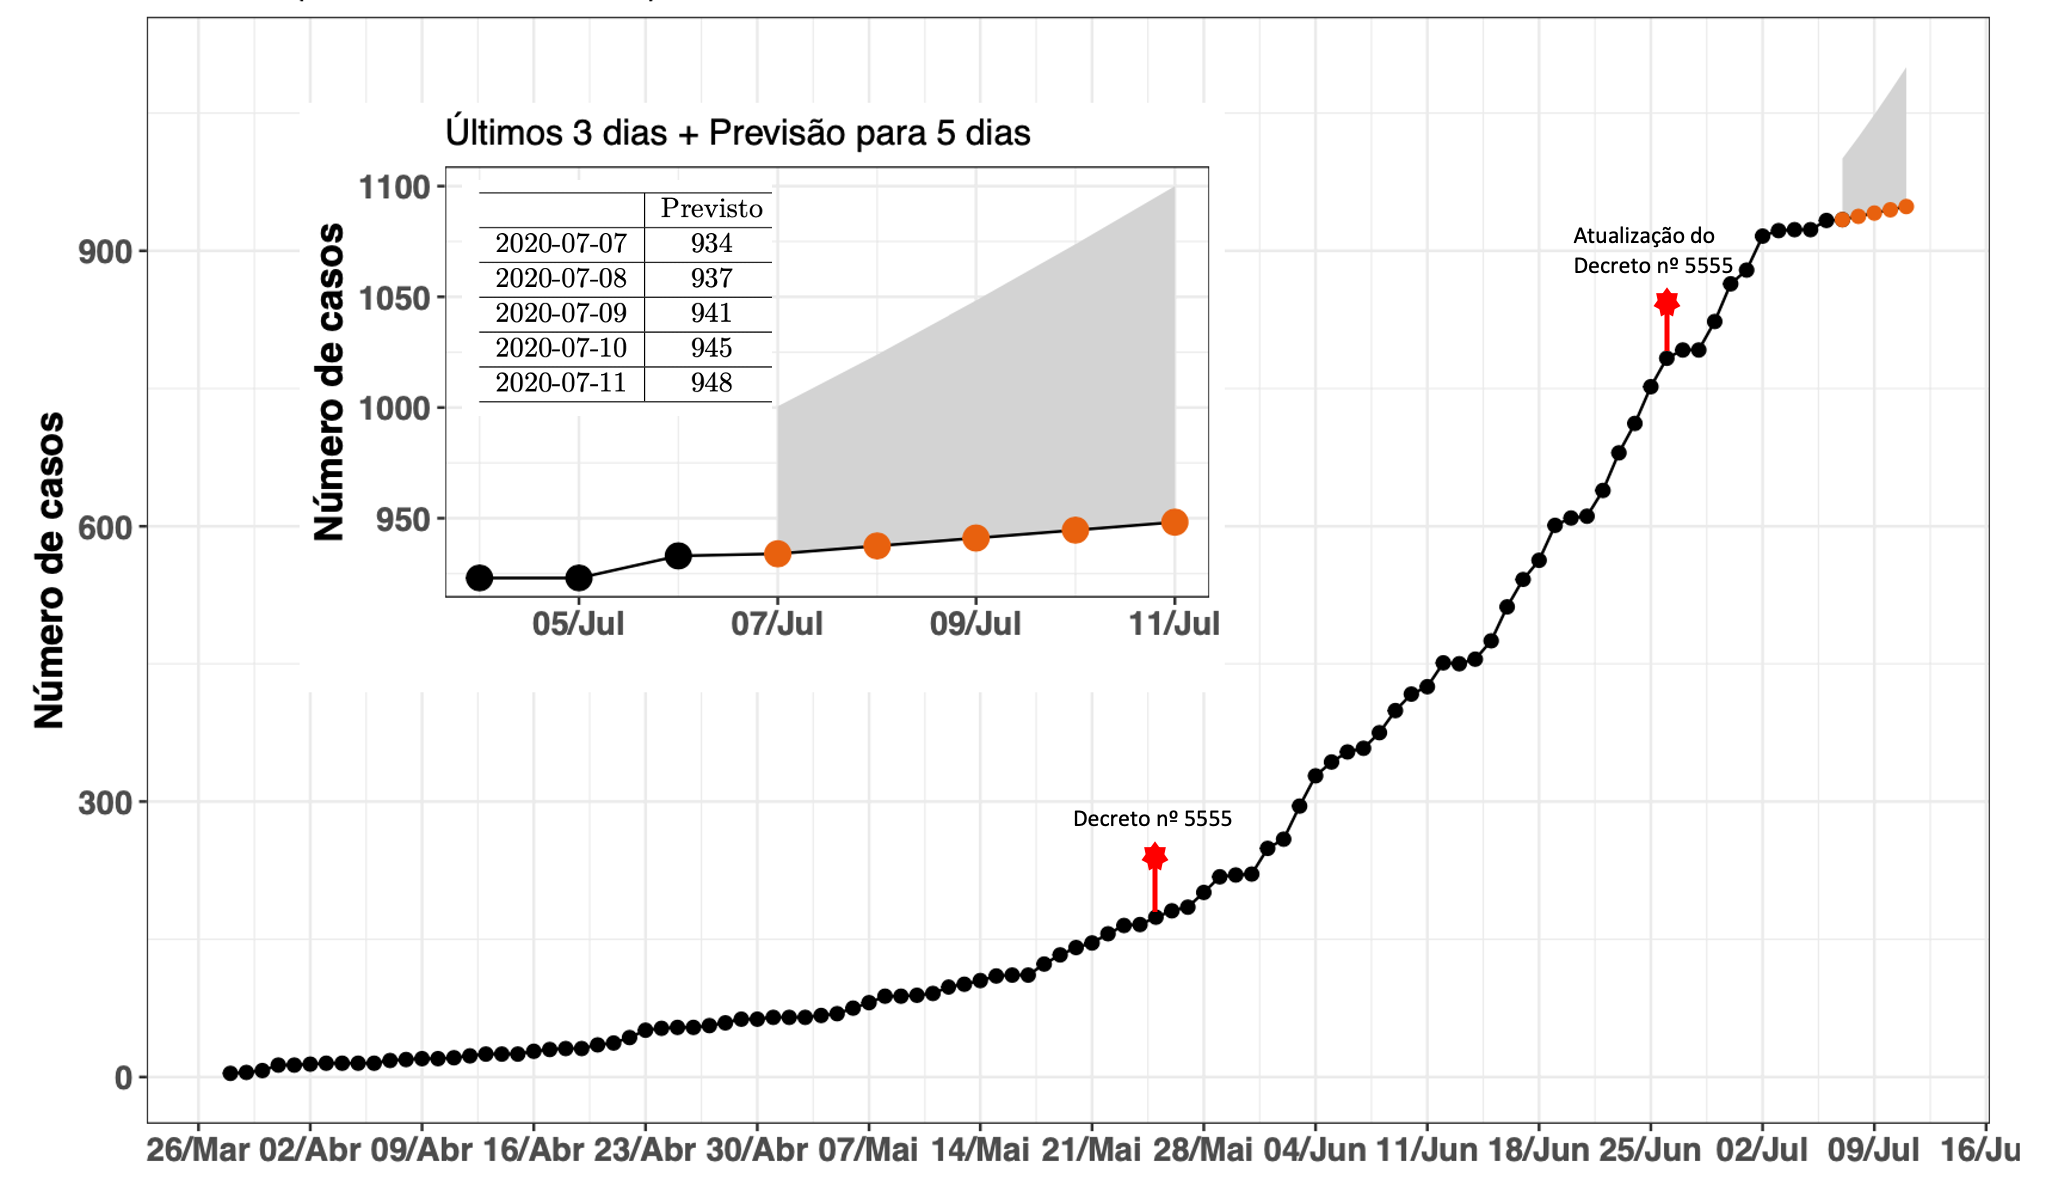
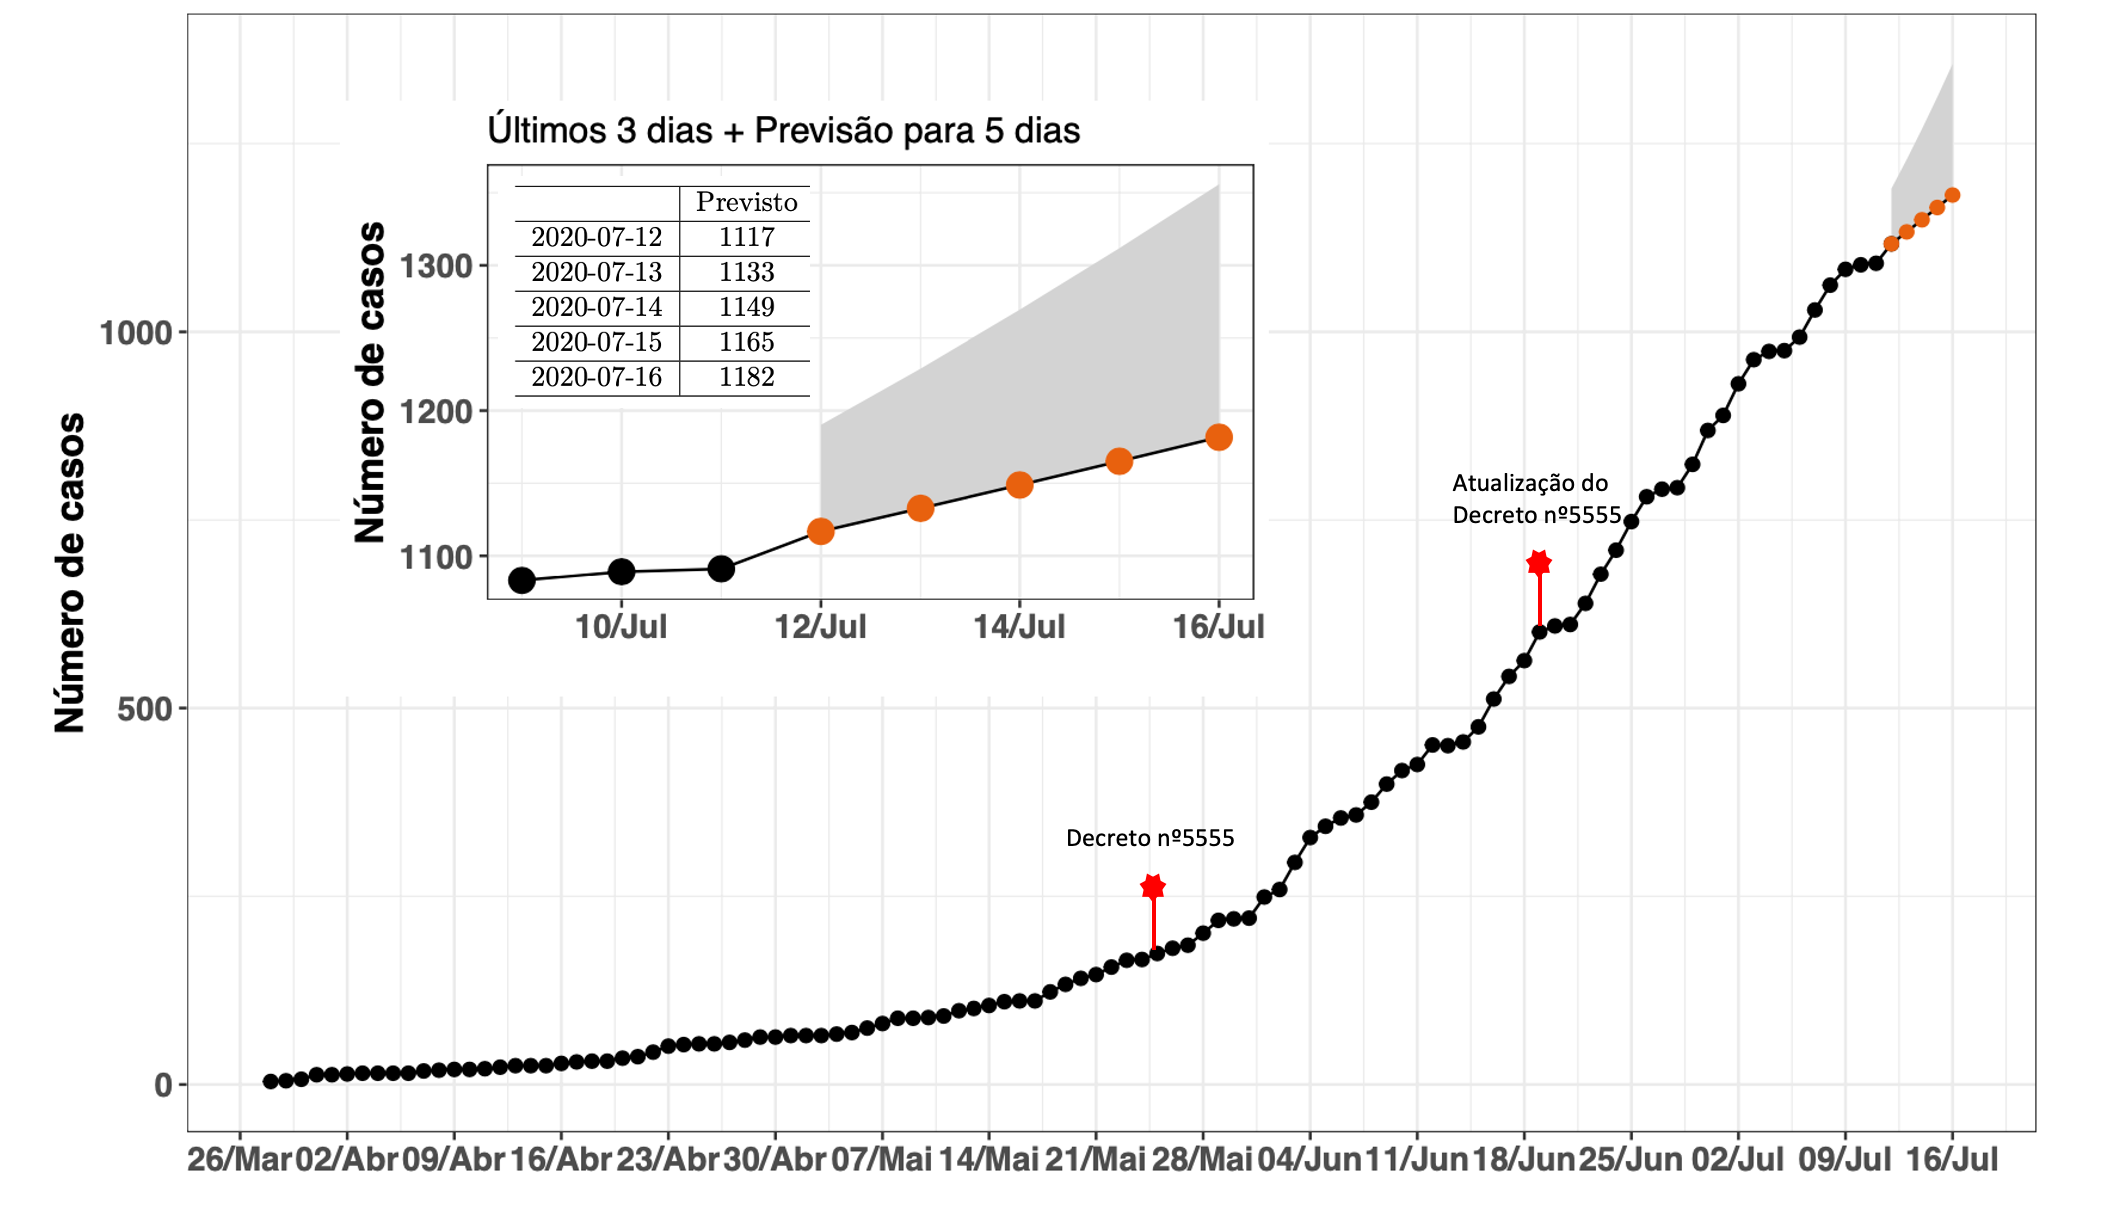
Atualizacao

diff --git a/index.html b/index.html
@@ -132,7 +132,7 @@
               <!-- CARD.TITLE.TEXT -->
               <h2 class="display">Casos de Uberaba</h2>
             <!--/a-->
-            <p class="card-text">Dados e projeções para o município de Uberaba, informações até o dia 06 de julho de 2020. Informações coletadas com a própria Secretaria Municipal de Saúde de Uberaba.</p>
+            <p class="card-text">Dados e projeções para o município de Uberaba, informações até o dia 11 de julho de 2020. Informações coletadas com a própria Secretaria Municipal de Saúde de Uberaba.</p>
             <!-- CARD.TITLE.DESCRIPTION -->
           </div>
         </div>
@@ -144,8 +144,8 @@
 
         <p class="text-justify mt-3">
             <ul>
-            <li>No dia de hoje (06/07/2020), acumulamos 933 casos notificados.</li>
-            <li>Projeção para dia 11 de Julho é de 948 podendo chegar até 1100 casos notificados, como indicado pela faixa cinza.</li>
+            <li>No dia de hoje (11/07/2020), acumulamos 1091 casos notificados.</li>
+            <li>Projeção para dia 16 de Julho é de 1182 podendo chegar até 1356 casos notificados, como indicado pela faixa cinza.</li>
             <li>Pontos pretos: número de casos confirmados a cada dia.</li>
             <li>Pontos laranjas: a previsão para os próximos 5 dias.</li>
             </ul>
@@ -173,7 +173,7 @@
         </div>
 
         <p class="text-justify mt-3">
-        Todos os dados foram obtidos da própria Secretária Municipal de Saúde de Uberaba até o dia 10 de julho de 2020.
+        Todos os dados foram obtidos da própria Secretária Municipal de Saúde de Uberaba até o dia 11 de julho de 2020.
         </p>
 
 <!--        <a href="https://datastudio.google.com/reporting/1CX1pHjDrbb7X1gEIeVY1sxQp8PziWgpN/page/g6OUB?s=hWFHXQaeMZY" target="_blank">
@@ -190,7 +190,7 @@
         <p class="text-justify mt-3"> Figura 2: Indicadores dos casos de Covid-19 em Uberaba. Clique na imagem para ver o gráfico interativo </p>
 
         <p class="text-justify mt-3">
-        Uma informação importante que vem sendo apresentada por pesquisadores da área, refere-se a média móvel. A Figura 3, apresenta a média móvel dos casos confirmados considerando um intervalo de sete dias. Os números diários têm variações muito grandes e isso não têm necessariamente relação com o avanço do vírus, como atrasos nos registros, falta de testes, entre outros problemas, o novo gráfico busca reduzir esses efeitos. No dia 10 de julho a média móvel de Uberaba é de 982 casos.
+        Uma informação importante que vem sendo apresentada por pesquisadores da área, refere-se a média móvel. A Figura 3, apresenta a média móvel dos casos confirmados considerando um intervalo de sete dias. Os números diários têm variações muito grandes e isso não têm necessariamente relação com o avanço do vírus, como atrasos nos registros, falta de testes, entre outros problemas, o novo gráfico busca reduzir esses efeitos. No dia 11 de julho a média móvel de Uberaba é de 1046 casos.
         </p>
 
         <a href="https://datastudio.google.com/reporting/1eNQdQv-rpu3yne8bvqD71-j8gS44fYts/page/sLUUB?s=sfL5MYwUyi4" target="_blank">
@@ -200,7 +200,7 @@
         <p class="text-justify mt-3"> Figura 3: Total acumulado de casos de Covid-19 em Uberaba e média móvel considerando intervalos de sete dias. </p>
 
         <p class="text-justify mt-3">
-        Apesar do dia de hoje, 10 de julho, a cidade ter acumulado 1064 casos confirmados, como mostra a Figura 2, pode-se observar que 74,3% já se encontram recuperados. Considerando a evolução dos casos ativos da doença, ou seja, aqueles que ainda podem transmitir o vírus, percebe-se que a curva está decrescendo. A Figura 4 apresenta a curva de casos ativos ao longo do tempo junto com a média móvel considerando intervalos de sete dias.
+        Apesar do dia de hoje, 10 de julho, a cidade ter acumulado 1064 casos confirmados, como mostra a Figura 2, pode-se observar que 72,7% já se encontram recuperados. Considerando a evolução dos casos ativos da doença, ou seja, aqueles que ainda podem transmitir o vírus, percebe-se que a curva está decrescendo. A Figura 4 apresenta a curva de casos ativos ao longo do tempo junto com a média móvel considerando intervalos de sete dias.
         </p>
 
         <a href="https://datastudio.google.com/reporting/1eNQdQv-rpu3yne8bvqD71-j8gS44fYts/page/sLUUB?s=sfL5MYwUyi4" target="_blank">
@@ -217,7 +217,7 @@
         </p>
 
         <p class="text-justify mt-3">
-        Nessa comparação com a média de 14 dias atrás, entende-se que variações de até 15% pata mais ou para menos caracterizam estabilidade da doença nesse período. No dia de hoje, 10 de julho, essa comparação em Uberaba é de 38%. Ainda não podemos afirmar uma estabilidade no controle da doença, mas quando se olha para a comparação dos últimos 10 dias, claramente se vê uma diminuição, conforme Figura 5.
+        Nessa comparação com a média de 14 dias atrás, entende-se que variações de até 15% pata mais ou para menos caracterizam estabilidade da doença nesse período. No dia de hoje, 10 de julho, essa comparação em Uberaba é de 42%. Ainda não podemos afirmar uma estabilidade no controle da doença, mas quando se olha para a comparação dos últimos 10 dias, claramente se vê uma diminuição, conforme Figura 5.
         </p>
 
         <a href="https://datastudio.google.com/reporting/1eNQdQv-rpu3yne8bvqD71-j8gS44fYts/page/sLUUB?s=sfL5MYwUyi4" target="_blank">
@@ -232,7 +232,7 @@
         </div>
 
         <p class="text-justify mt-3">
-            Uma pessoa infectada está contaminando 1.22 pessoas. (Semana passada esse valor era de 1.27)
+            Uma pessoa infectada está contaminando 1.18 pessoas. (Semana passada esse valor era de 1.27)
         </p>
 
         <!-- CARD.TEXT -->
@@ -263,7 +263,11 @@
         </div>
 
         <p class="text-justify mt-3">
+          Estamos coletando dados sobre a covid-19 de cidades da região para assim podermos analisar estatisticamente como estamos reagindo a doença. Além disso, calculamos a taxa de letalidade e de mortalidade para cada uma delas para uma interpretação geral de como a doença está se comportando em cada cidade.
 
+          A letalidade é uma taxa que compara o número de óbitos com a quantidade de pessoas vulneraveís a uma causa específica.
+
+          A mortalidade é um índice obtido por uma relação dos óbitos por uma causa específica em um determinado período de tempo para cada 100.000 habitantes da área analisada.
         </p>
         <img src="./web/municipios/MG/Uberaba/acomparativos.png" class="img-fluid" style="max-height:600px;" alt="Gŕafico comparando Uberaba com outras cidades.">
         <p class="text-center mt-3">
